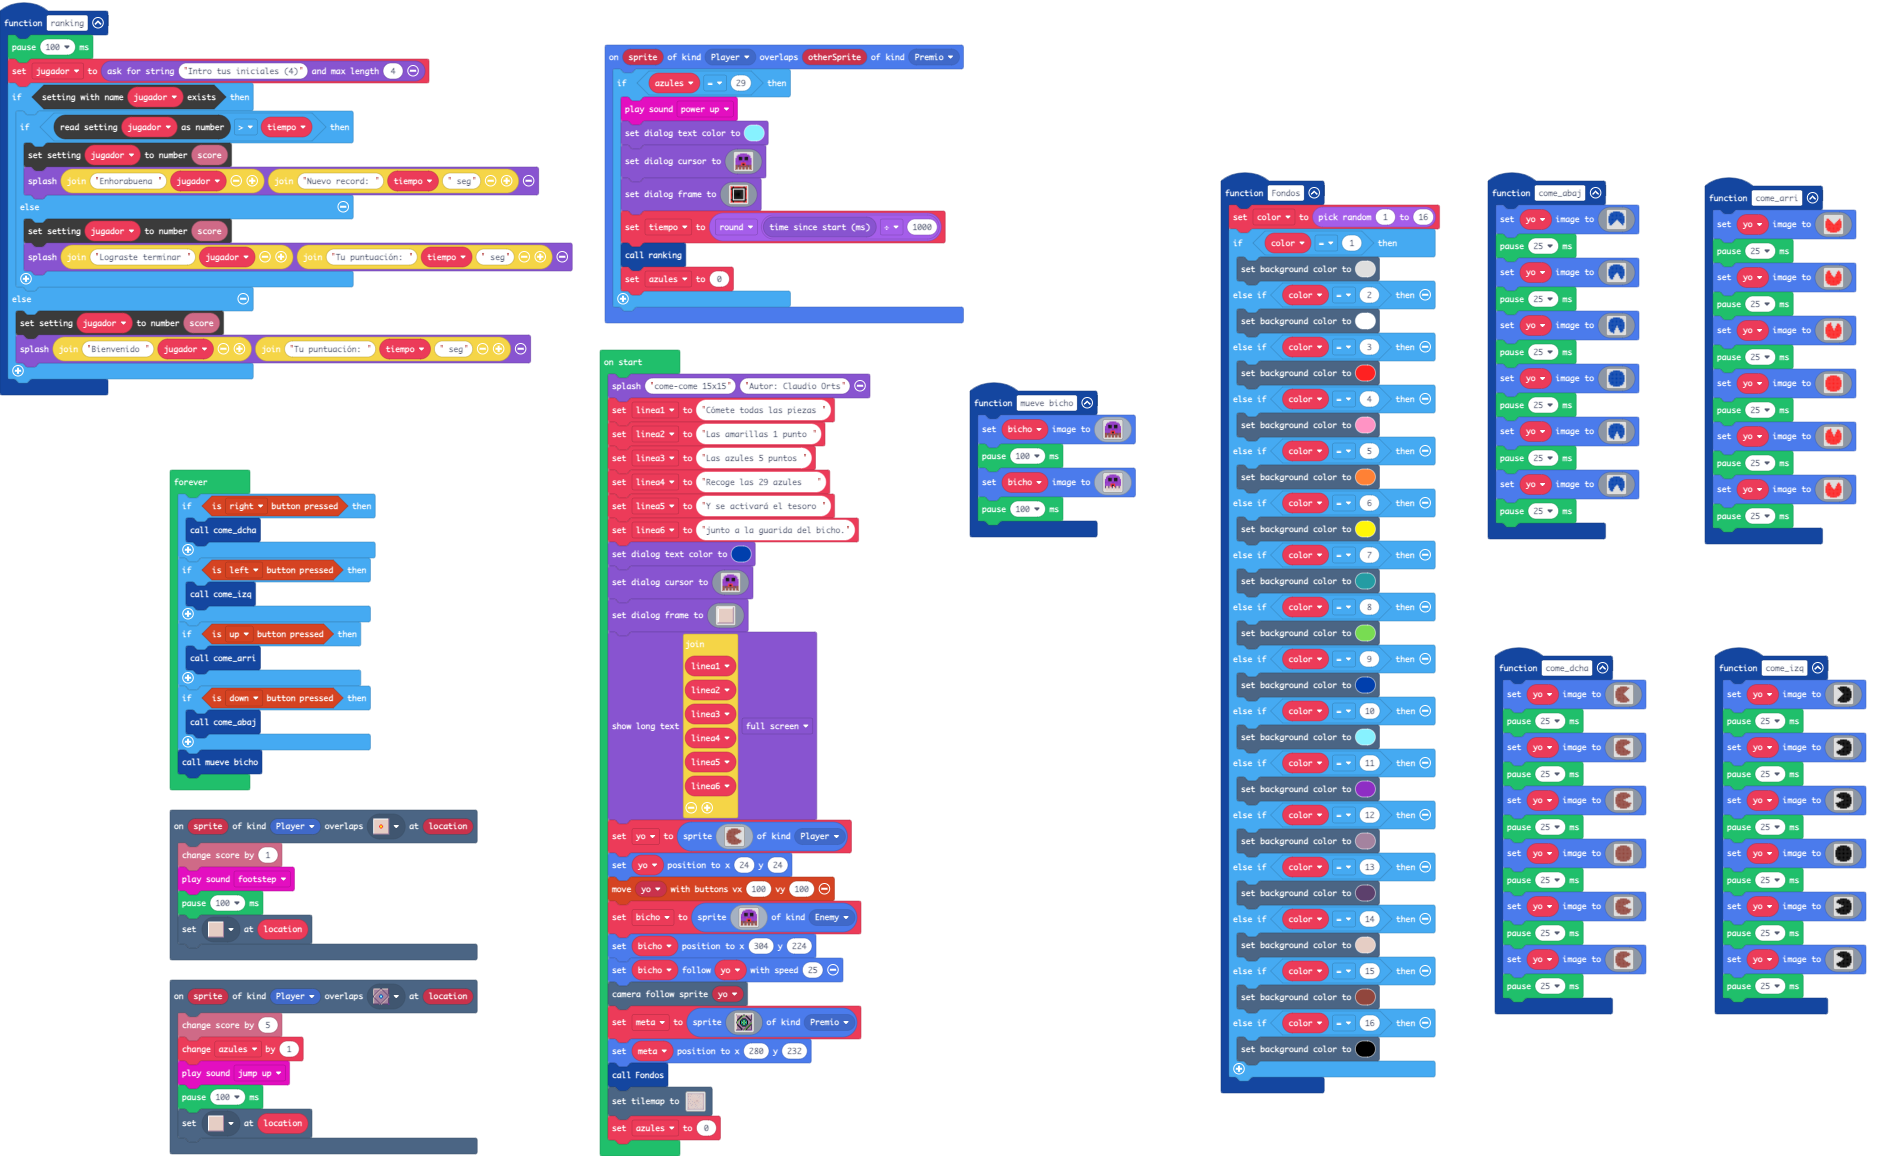
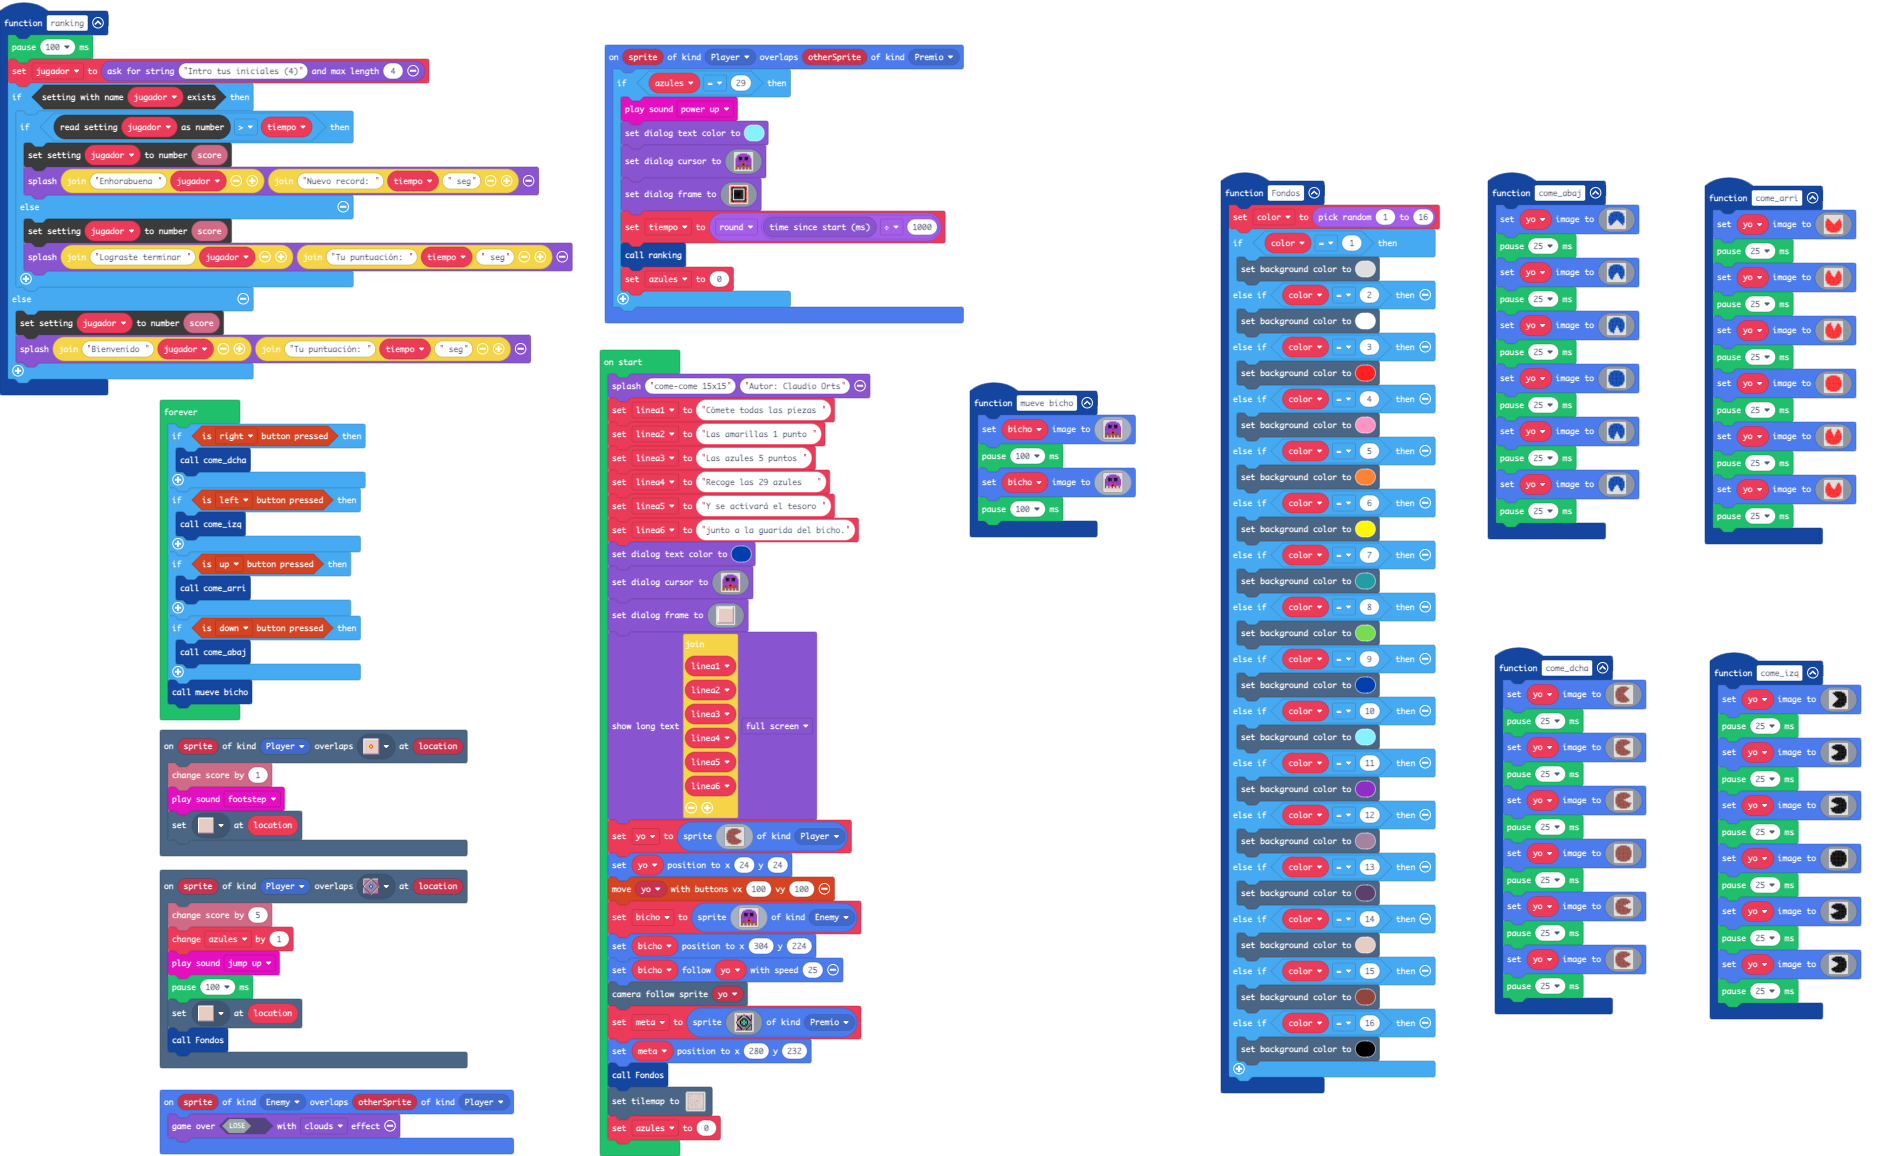
Update main.blocks, main.ts, images.g.jres, images.g.ts

diff --git a/images.g.ts b/images.g.ts
@@ -500,170 +500,6 @@ f f f f f f f f f f f f f f
 . . f f f f f f f f f f . . 
 . . . . f f f f f f . . . . 
 `;
-            case "image2":return img`
-6 6 6 6 6 6 6 6 6 6 6 6 6 6 6 6 
-6 9 9 9 6 6 9 9 9 9 6 6 9 9 9 6 
-6 9 9 6 6 9 9 c c 9 9 6 6 9 9 6 
-6 9 6 6 9 9 c c 6 9 9 9 6 6 9 6 
-6 6 6 9 9 9 9 c 6 6 9 9 9 6 6 6 
-6 6 9 9 9 9 9 9 6 6 9 9 9 9 6 6 
-6 9 9 9 6 6 6 6 9 6 9 9 c 9 9 6 
-6 9 c 6 6 6 9 9 9 6 9 c c c 9 6 
-6 9 c c c 9 6 9 9 9 6 6 6 c 9 6 
-6 9 9 c 9 9 6 9 6 6 6 6 9 9 9 6 
-6 6 9 9 9 9 6 6 9 9 9 9 9 9 6 6 
-6 6 6 9 9 9 6 6 c 9 9 9 9 6 6 6 
-6 9 6 6 9 9 9 6 c c 9 9 6 6 9 6 
-6 9 9 6 6 9 9 c c 9 9 6 6 9 9 6 
-6 9 9 9 6 6 9 9 9 9 6 6 9 9 9 6 
-6 6 6 6 6 6 6 6 6 6 6 6 6 6 6 6 
-`;
-            case "image8":return img`
-. . . . 3 3 3 3 3 3 . . . . 
-. . 3 3 3 3 3 3 3 3 3 3 . . 
-. 3 3 3 3 3 3 3 3 3 3 3 3 . 
-. 3 3 3 3 3 3 3 3 3 3 3 3 . 
-3 3 3 3 3 3 3 3 3 3 3 3 3 3 
-3 3 3 3 3 3 3 3 3 3 3 3 3 3 
-3 3 3 3 3 3 3 3 3 3 3 3 3 3 
-3 3 3 3 3 3 3 3 3 3 3 3 3 3 
-3 3 3 3 3 3 3 3 3 3 3 3 3 3 
-3 3 3 3 3 3 3 3 3 3 3 3 3 3 
-. 3 3 3 3 3 3 3 3 3 3 3 3 . 
-. 3 3 3 3 3 3 3 3 3 3 3 3 . 
-. . 3 3 3 3 3 3 3 3 3 3 . . 
-. . . . 3 3 3 3 3 3 . . . . 
-`;
-            case "image9":return img`
-. . . . 3 3 3 3 3 3 . . . . 
-. . 3 3 3 3 3 3 3 3 3 3 . . 
-. 3 3 3 3 3 3 3 3 3 3 3 3 . 
-. 3 3 3 3 3 3 3 3 3 3 3 3 . 
-3 3 3 3 3 3 3 3 3 3 3 3 3 3 
-3 3 3 3 3 3 3 3 3 3 3 3 3 3 
-3 3 3 3 3 3 3 3 3 3 3 3 3 3 
-3 3 3 3 3 3 3 3 3 3 3 3 3 3 
-3 3 3 3 3 3 3 3 3 3 3 3 3 3 
-3 3 3 3 3 3 3 3 3 3 3 3 3 3 
-. 3 3 3 3 3 3 3 3 3 3 3 3 . 
-. 3 3 3 3 3 3 3 3 3 3 3 3 . 
-. . 3 3 3 3 3 3 3 3 3 3 . . 
-. . . . 3 3 3 3 3 3 . . . . 
-`;
-            case "image10":return img`
-6 6 6 6 6 6 6 6 6 6 6 6 6 6 6 6 
-6 9 9 9 6 6 9 9 9 9 6 6 9 9 9 6 
-6 9 9 6 6 9 9 c c 9 9 6 6 9 9 6 
-6 9 6 6 9 9 c c 6 9 9 9 6 6 9 6 
-6 6 6 9 9 9 9 c 6 6 9 9 9 6 6 6 
-6 6 9 9 9 9 9 9 6 6 9 9 9 9 6 6 
-6 9 9 9 6 6 6 6 9 6 9 9 c 9 9 6 
-6 9 c 6 6 6 9 9 9 6 9 c c c 9 6 
-6 9 c c c 9 6 9 9 9 6 6 6 c 9 6 
-6 9 9 c 9 9 6 9 6 6 6 6 9 9 9 6 
-6 6 9 9 9 9 6 6 9 9 9 9 9 9 6 6 
-6 6 6 9 9 9 6 6 c 9 9 9 9 6 6 6 
-6 9 6 6 9 9 9 6 c c 9 9 6 6 9 6 
-6 9 9 6 6 9 9 c c 9 9 6 6 9 9 6 
-6 9 9 9 6 6 9 9 9 9 6 6 9 9 9 6 
-6 6 6 6 6 6 6 6 6 6 6 6 6 6 6 6 
-`;
-            case "image11":return img`
-. . . . 3 3 3 3 3 3 . . . . 
-. . 3 3 3 3 3 3 3 3 3 3 . . 
-. 3 3 3 3 3 3 3 3 3 3 3 3 . 
-. 3 3 3 3 3 3 3 3 3 3 3 3 . 
-3 3 3 3 3 3 3 3 3 3 3 3 3 3 
-3 3 3 3 3 3 3 3 3 3 3 3 3 3 
-3 3 3 3 3 3 3 3 3 3 3 3 3 3 
-3 3 3 3 3 3 3 3 3 3 3 3 3 3 
-3 3 3 3 3 3 3 3 3 3 3 3 3 3 
-3 3 3 3 3 3 3 3 3 3 3 3 3 3 
-. 3 3 3 3 3 3 3 3 3 3 3 3 . 
-. 3 3 3 3 3 3 3 3 3 3 3 3 . 
-. . 3 3 3 3 3 3 3 3 3 3 . . 
-. . . . 3 3 3 3 3 3 . . . . 
-`;
-            case "image12":return img`
-. . . . 3 3 3 3 3 3 . . . . 
-. . 3 3 3 3 3 3 3 3 3 3 . . 
-. 3 3 3 3 3 3 3 3 3 3 3 3 . 
-. 3 3 3 3 3 3 3 3 3 3 3 3 . 
-3 3 3 3 3 3 3 3 3 3 3 3 3 3 
-3 3 3 3 3 3 3 3 3 3 3 3 3 3 
-3 3 3 3 3 3 3 3 3 3 3 3 3 3 
-3 3 3 3 3 3 3 3 3 3 3 3 3 3 
-3 3 3 3 3 3 3 3 3 3 3 3 3 3 
-3 3 3 3 3 3 3 3 3 3 3 3 3 3 
-. 3 3 3 3 3 3 3 3 3 3 3 3 . 
-. 3 3 3 3 3 3 3 3 3 3 3 3 . 
-. . 3 3 3 3 3 3 3 3 3 3 . . 
-. . . . 3 3 3 3 3 3 . . . . 
-`;
-            case "image13":return img`
-. . . . 3 3 3 3 3 3 . . . . 
-. . 3 3 3 3 3 3 3 3 3 3 . . 
-. 3 3 3 3 3 3 3 3 3 3 3 3 . 
-. 3 3 3 3 3 3 3 3 3 3 3 3 . 
-3 3 3 3 3 3 3 3 3 3 3 3 3 3 
-3 3 3 3 3 3 3 3 3 3 3 3 3 3 
-3 3 3 3 3 3 3 3 3 3 3 3 3 3 
-3 3 3 3 3 3 3 3 3 3 3 3 3 3 
-3 3 3 3 3 3 3 3 3 3 3 3 3 3 
-3 3 3 3 3 3 3 3 3 3 3 3 3 3 
-. 3 3 3 3 3 3 3 3 3 3 3 3 . 
-. 3 3 3 3 3 3 3 3 3 3 3 3 . 
-. . 3 3 3 3 3 3 3 3 3 3 . . 
-. . . . 3 3 3 3 3 3 . . . . 
-`;
-            case "image14":return img`
-. . . . 3 3 3 3 3 3 . . . . 
-. . 3 3 3 3 3 3 3 3 3 3 . . 
-. 3 3 3 3 3 3 3 3 3 3 3 3 . 
-. 3 3 3 3 3 3 3 3 3 3 3 3 . 
-3 3 3 3 3 3 3 3 3 3 3 3 3 3 
-3 3 3 3 3 3 3 3 3 3 3 3 3 3 
-3 3 3 3 3 3 3 3 3 3 3 3 3 3 
-3 3 3 3 3 3 3 3 3 3 3 3 3 3 
-3 3 3 3 3 3 3 3 3 3 3 3 3 3 
-3 3 3 3 3 3 3 3 3 3 3 3 3 3 
-. 3 3 3 3 3 3 3 3 3 3 3 3 . 
-. 3 3 3 3 3 3 3 3 3 3 3 3 . 
-. . 3 3 3 3 3 3 3 3 3 3 . . 
-. . . . 3 3 3 3 3 3 . . . . 
-`;
-            case "image15":return img`
-. . . . 3 3 3 3 3 3 . . . . 
-. . 3 3 3 3 3 3 3 3 3 3 . . 
-. 3 3 3 3 3 3 3 3 3 3 3 3 . 
-. 3 3 3 3 3 3 3 3 3 3 3 3 . 
-3 3 3 3 3 3 3 3 3 3 3 3 3 3 
-3 3 3 3 3 3 3 3 3 3 3 3 3 3 
-3 3 3 3 3 3 3 3 3 3 3 3 3 3 
-3 3 3 3 3 3 3 3 3 3 3 3 3 3 
-3 3 3 3 3 3 3 3 3 3 3 3 3 3 
-3 3 3 3 3 3 3 3 3 3 3 3 3 3 
-. 3 3 3 3 3 3 3 3 3 3 3 3 . 
-. 3 3 3 3 3 3 3 3 3 3 3 3 . 
-. . 3 3 3 3 3 3 3 3 3 3 . . 
-. . . . 3 3 3 3 3 3 . . . . 
-`;
-            case "image16":return img`
-. . . . 3 3 3 3 3 3 . . . . 
-. . 3 3 3 3 3 3 3 3 3 3 . . 
-. 3 3 3 3 3 3 3 3 3 3 3 3 . 
-. 3 3 3 3 3 3 3 3 3 3 3 3 . 
-3 3 3 3 3 3 3 3 3 3 3 3 3 3 
-3 3 3 3 3 3 3 3 3 3 3 3 3 3 
-3 3 3 3 3 3 3 3 3 3 3 3 3 3 
-3 3 3 3 3 3 3 3 3 3 3 3 3 3 
-3 3 3 3 3 3 3 3 3 3 3 3 3 3 
-3 3 3 3 3 3 3 3 3 3 3 3 3 3 
-. 3 3 3 3 3 3 3 3 3 3 3 3 . 
-. 3 3 3 3 3 3 3 3 3 3 3 3 . 
-. . 3 3 3 3 3 3 3 3 3 3 . . 
-. . . . 3 3 3 3 3 3 . . . . 
-`;
         }
         return null;
     })

diff --git a/main.ts b/main.ts
@@ -108,7 +108,6 @@ function come_abaj () {
 scene.onOverlapTile(SpriteKind.Player, assets.tile`myTile1`, function (sprite, location) {
     info.changeScoreBy(1)
     music.footstep.play()
-    pause(100)
     tiles.setTileAt(location, assets.tile`myTile3`)
 })
 sprites.onOverlap(SpriteKind.Player, SpriteKind.Premio, function (sprite, otherSprite) {
@@ -257,6 +256,9 @@ function come_izq () {
         `)
     pause(25)
 }
+sprites.onOverlap(SpriteKind.Enemy, SpriteKind.Player, function (sprite, otherSprite) {
+    game.over(false, effects.clouds)
+})
 function come_dcha () {
     yo.setImage(img`
         . . . . e e e e e e . . . . 
@@ -367,6 +369,7 @@ scene.onOverlapTile(SpriteKind.Player, assets.tile`myTile2`, function (sprite, l
     music.jumpUp.play()
     pause(100)
     tiles.setTileAt(location, assets.tile`myTile3`)
+    Fondos()
 })
 function Fondos () {
     color = randint(1, 16)
